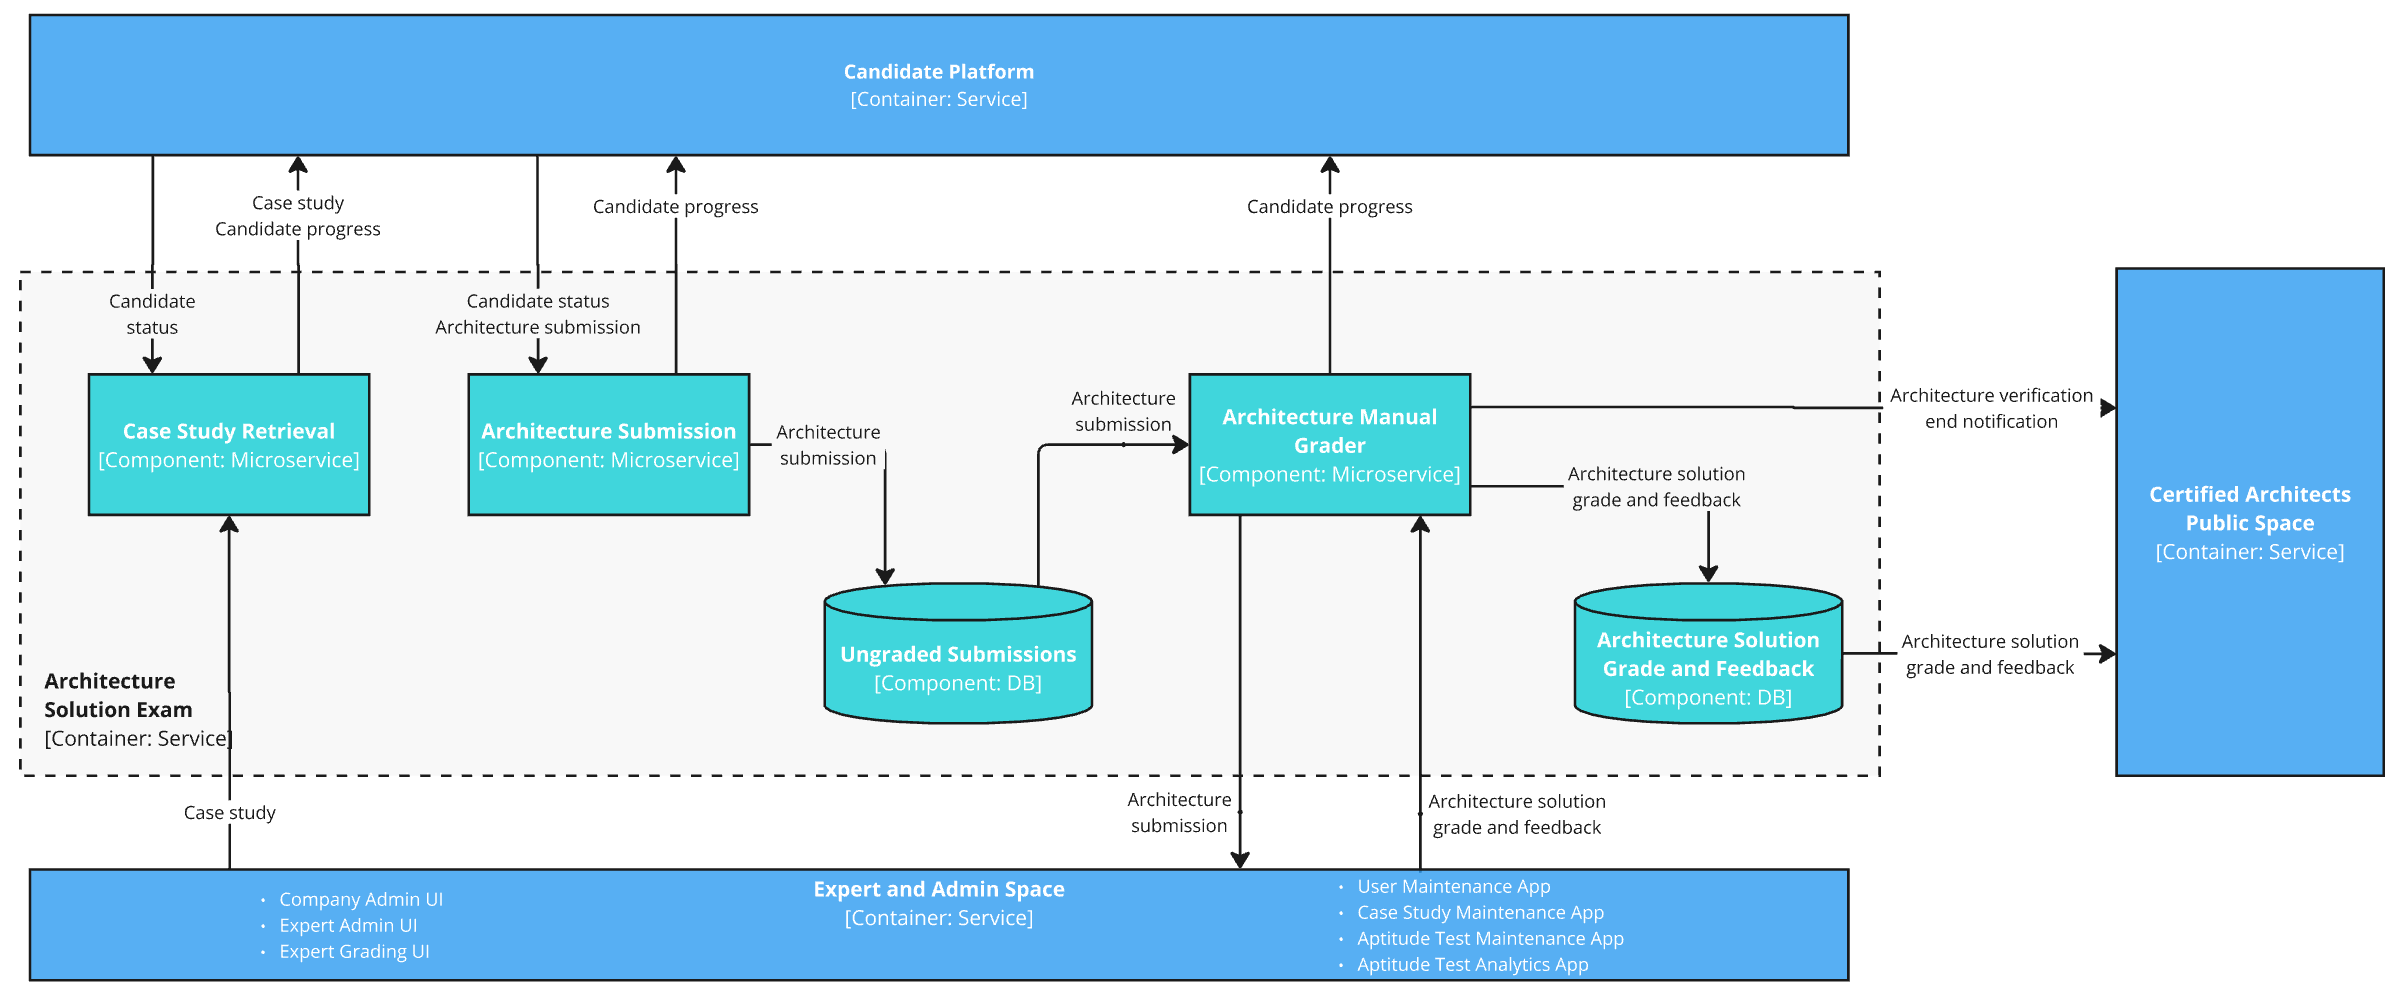
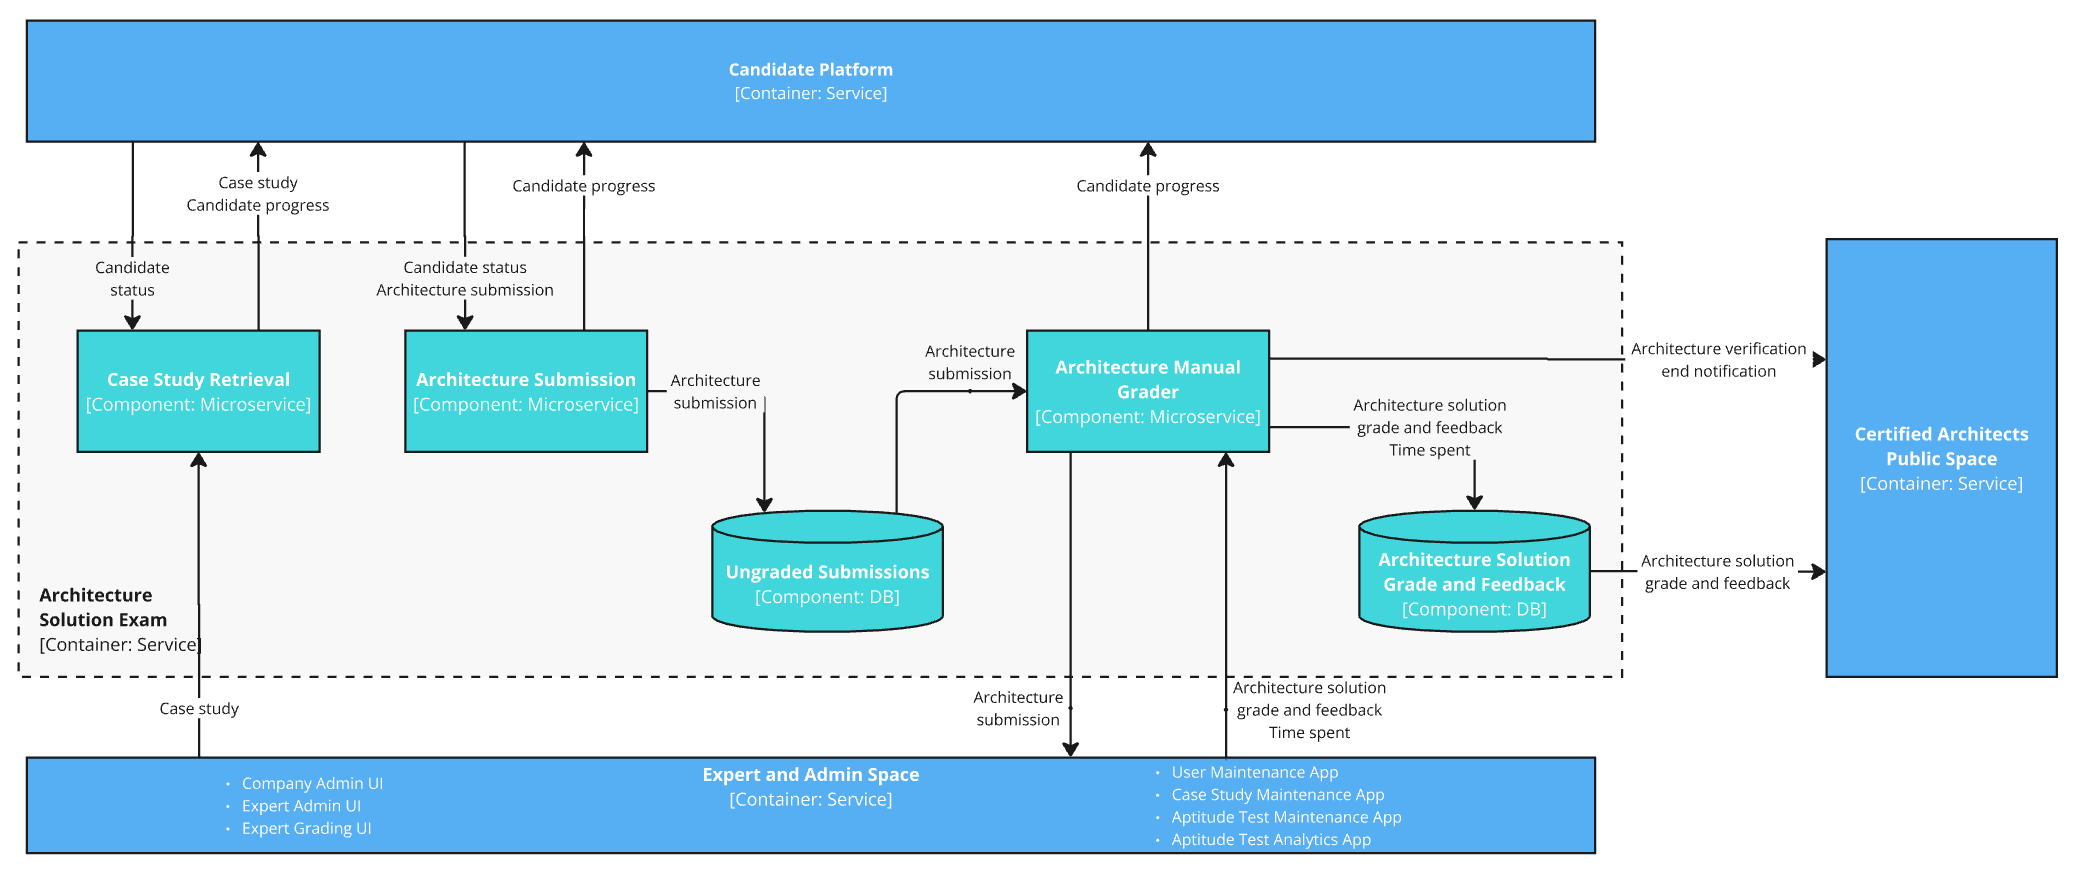
Added context into Main file and updated assumption about time spent

diff --git a/README.md b/README.md
@@ -1,6 +1,6 @@
 # The Software Architecture Guild Architectural Kata by O'Reilly, February 2025
 
-## Team members
+## Team members <!-- omit in toc -->
 
 - [Ilya Hardzeenka](https://www.linkedin.com/in/ilya-hardzeenka/)
 - [Ksenia Bernat](https://www.linkedin.com/in/kseniya-bernat-342900104/)
@@ -8,7 +8,30 @@
 - [Mikalai (Nick) Herman](https://www.linkedin.com/in/gekola/)
 - [Oleg Zubchenko](https://www.linkedin.com/in/rgbd-me/)
 
-## Table of Contents
+## Table of Contents <!-- omit in toc -->
+
+- [Welcome](#welcome)
+- [Business Case](#business-case)
+  - [Background](#background)
+  - [Market Opportunity](#market-opportunity)
+  - [Objective](#objective)
+  - [Stakeholders](#stakeholders)
+  - [External Stakeholders](#external-stakeholders)
+  - [Original requirements](#original-requirements)
+- [Current System Overview](#current-system-overview)
+  - [Functional Viewpoint](#functional-viewpoint)
+  - [Context Viewpoint](#context-viewpoint)
+  - [Informational Viewpoint](#informational-viewpoint)
+  - [Cost Perspective](#cost-perspective)
+  - [Quality Perspective](#quality-perspective)
+- [Assumptions](#assumptions)
+- [Challenges and Opportunities](#challenges-and-opportunities)
+- [Proposed Solutions](#proposed-solutions)
+  - [Overview](#overview)
+  - [Solution 1](#solution-1)
+  - [Solution 2](#solution-2)
+  - [Solution 3](#solution-3)
+- [Final words](#final-words)
 
 ## Welcome
 
@@ -144,6 +167,34 @@ A Designated Expert has all the responsibilities of a regular Expert Software Ar
 
 > *Describes the relationships, dependencies, and interactions between the system and its environment (the people, systems, and external entities with which it interacts).*
 
+Detailed description of logical structure of the system can be found by in a [separate document](current_state/context_viewpoint/README.md). Here we will point out the most important aspects of current structure.
+
+#### Level 2 - Container diagram - Certification Platform
+
+> The Container diagram shows the high-level shape of the software architecture and how responsibilities are distributed across it. It also shows the major technology choices and how the containers communicate with one another
+
+We propose a revised logical organization for the system, with slight modifications from the current structure. Our goal is to re-group components into the following categories to provide better clarity when explaining future system changes.
+
+> [!NOTE]
+> *If the existing structure differs from our assumptions, it will introduce a prerequisite implementation step before any proposed AI-related changes can be implemented. This step would involve aligning logical structure with the necessary structure to support AI integration.*
+
+- **Candidate Space**
+  Responsible for interaction with Candidates. Includes Candidate Testing UI, Candidate Registration, Candidate Status, and Notification service. Here, Candidates can sign up, take tests, and receive notifications when test validation results are available.
+- **Expert and Admin Space**
+  Responsible for handling interactions with Experts, Designated Experts, and Administrators. Here, Experts and Designated Experts can collaborate to create and modify existing Tests and Case Studies, as well as grade submitted tests and architecture solutions. Administrators and Experts can also manage Expert user profiles here.
+- **Aptitude Test**
+  Service responsible for organizing the Aptitude Test process. It delivers the test to Candidates and accepts their answers. It automatically grades multiple-choice questions and presents short answers for manual grading. It also accepts grades and feedback submitted by Experts.
+- **Architecture Solution Exam**
+  Service responsible for organizing the Case Study Test process. It randomly selects a Case Study for the Candidate and accepts their solution. It presents the submitted solution to the Expert for evaluation and accepts grades and feedback.
+- **Certified Architects Public Space**
+  Service responsible for generating, storing, and distributing Certificates to Candidates and external HRs. It also generates a notification with the results of the Architecture Solution Exam and Certificate information.
+
+![Diagram](current_state/context_viewpoint/level2_containers.png)
+
+In addition to the new structure, we have made one key assumption. There is no information on how experts' time is tracked, who reviews it, or how their salaries are managed. While accounting is not our primary focus, understanding the time spent by experts per test is crucial for the future changes we plan to introduce.
+
+**We assume that experts submit the time spent along with the validated test or architecture submission**.
+
 ### Informational Viewpoint
 
 > *Describes the way that the architecture stores, manipulates, manages, and distributes information.*
@@ -204,7 +255,7 @@ Given the lack of additional information, we must make the **following assumptio
 
 - For the **8 hours** an Expert spends on **Case Study validation**, we assume the time is evenly distributed: **33% for understanding the submission, 33% for grading, and 33% for providing feedback**.
 
-- !!! We assume the system **automatically tracks** the time an Expert spends on validating tests and **stores this information** in a designated location.
+- We assume the system **automatically tracks** the time an Expert spends on validating tests and **stores this information** in a designated location.
 
 - We assume there is **no established retention period**, and the database **stores graded answers and architecture submissions** of **120,000 candidates** who have already completed the certification process.
 
@@ -218,19 +269,19 @@ Given the lack of additional information, we must make the **following assumptio
 
 ## Challenges and Opportunities
 
-### Scalability is a Major Challenge
+#### Scalability is a Major Challenge
 
 The company currently employs *300 Experts* to validate tests for *200 candidates per week*. Scaling up to *1,000 candidates per week* would require either *longer wait times* (which is unacceptable) or *hiring significantly more Experts*. Hiring more Experts would also necessitate additional *managerial roles and support staff* (e.g., Administrators, Accountants, HR personnel), further *increasing operational costs*. As a result, *the cost per test would continue to rise*, negatively impacting profitability.
 
 #### <mark>Opportunity: Investing in **automation** is essential to ensure the company's long-term viability</mark>
 
-### High Cost Model
+#### High Cost Model
 
 Currently, the company spends *$550 per test validation*, which accounts for *68% of the $800 certification fee*. This is a *significant expense*, and the *primary cost driver* is the time spent by Experts on validation. Reducing validation time is *key to lowering costs*, and AI can play a major role in *optimizing productivity*.
 
 #### <mark>Opportunity: AI-driven productivity enhancements can significantly **reduce validation time**, leading to **lower costs per test** and increased **operational efficiency**</mark>
 
-### Current Expert Compensation Model Discourages Efficiency
+#### Current Expert Compensation Model Discourages Efficiency
 
 Experts are *paid per hour*, meaning there is *no incentive* for them to work faster or process more tests. AI assistance can only succeed *if Experts are motivated* to use it effectively.
 
@@ -242,19 +293,19 @@ A better approach would be a *per-test payment model* instead of hourly pay.
 
 #### <mark>Opportunity: Transitioning to a **per-test payment model** would incentivize Experts to work faster and maximize efficiency, benefiting both Experts and the company</mark>
 
-### High-Quality Expectations Limit Full Automation
+#### High-Quality Expectations Limit Full Automation
 
 Given the strict *accuracy and reliability requirements*, fully automating the grading process is *not viable*. A human *must remain in control* to make final grading decisions. Instead of *replacing Experts*, AI should function as an *assistant*, helping them *validate tests faster and with greater accuracy*.
 
 #### <mark>Requirement: AI should be used as an **expert assistant**, speeding up grading rather than replacing human decision-making</mark>
 
-### Lack of a Measurable Grading Quality Process
+#### Lack of a Measurable Grading Quality Process
 
 Despite high expectations for grading quality, there is *no formalized process to measure it*. Establishing a *quality baseline* is crucial before making system changes. Experts already make mistakes, and incorporating *candidate feedback loops* is essential for assessing grading accuracy. A *human-only baseline* must be established to *track improvements* as AI-assisted grading is introduced.
 
 #### <mark>Requirement: A **quality control process** must be implemented before system improvements, ensuring that grading accuracy can be measured and improved over time</mark>
 
-### No Defined Process for Tracking Validation Time
+#### No Defined Process for Tracking Validation Time
 
 There is *no mention of how validation time is currently tracked*, yet it is a key efficiency metric for AI-assisted improvements. A proper *measurement system* must be put in place to ensure progress in *reducing validation time*.
 

diff --git a/current_state/context_viewpoint/README.md b/current_state/context_viewpoint/README.md
@@ -36,9 +36,7 @@ As we can see, the system is interacting only with people:
 
 > The Container diagram shows the high-level shape of the software architecture and how responsibilities are distributed across it. It also shows the major technology choices and how the containers communicate with one another
 
-We propose new logical organization for the system, which is a bit different from presented one. We would like to re-group components into following groups:
-
-We propose a new logical organization for the system, which differs slightly from the presented one. We would like to re-group components into the following groups:
+We propose a revised logical organization for the system, with slight modifications from the current structure. Our goal is to re-group components into the following categories to provide better clarity when explaining future system changes:
 
 - **Candidate Space**
   Responsible for interaction with Candidates. Includes Candidate Testing UI, Candidate Registration, Candidate Status, and Notification service. Here, Candidates can sign up, take tests, and receive notifications when test validation results are available.
@@ -65,7 +63,7 @@ The diagram illustrates the **Candidate Space** and its interaction with various
 
 The **Candidate Testing UI (Component: Web App)** serves as the central interface where candidates provide their information, submit aptitude test answers, and upload architecture solutions.
 
-#### Workflow <!-- omit in toc -->
+#### Workflow
 
 Step 1: Candidate Registration
 
@@ -103,7 +101,7 @@ The system ensures a seamless process for candidates from registration to certif
 
 The diagram illustrates the **Expert and Admin Space**, which supports the certification process by allowing experts and administrators to manage exams, grading, and certification logs. The architecture is divided into multiple sections, including expert administration, grading, and overall maintenance. The system ensures an efficient process for maintaining certification standards, analyzing test performance, and allowing expert-driven updates to exam content.
 
-#### Workflow <!-- omit in toc -->
+#### Workflow
 
 Step 1: Administrative Functions
 
@@ -127,6 +125,7 @@ Step 3: Expert Grading Process
 - Short answers are sent to the **Expert Grading UI (Component: Web App)** for evaluation by software architects.
 - The **Architecture Solution Exam (Container: Service)** processes case study submissions and forwards them for expert review.
 - Experts manually grade short-answer responses and architecture solutions, providing detailed feedback.
+- Experts submit the time spent validating a test along with the validated test itself.
 
 Step 4: Certification Review & Reporting
 
@@ -139,7 +138,7 @@ Step 4: Certification Review & Reporting
 
 This diagram represents the **Aptitude Test** process, which is the **first stage** of the certification process for software architects. It illustrates the workflow for test retrieval, answers submission, grading, and notification.
 
-#### Workflow <!-- omit in toc -->
+#### Workflow
 
 The aptitude test process follows a structured step-by-step approach.
 
@@ -181,7 +180,7 @@ Step 5: Candidate Notification & Result Delivery
 
 This diagram represents the **Architecture Solution Exam** process, which is the **second stage** of the certification process for software architects. It illustrates the workflow for case study retrieval, architecture submission, grading, and final certification.
 
-#### Workflow <!-- omit in toc -->
+#### Workflow
 
 Step 1: Case Study Retrieval
 
@@ -211,7 +210,7 @@ Step 4: Candidate Notification & Certification
 
 The diagram illustrates the **Certified Architects Public Space**, which manages certification issuance, verification, and result retrieval for candidates and HR representatives. It ensures that successful candidates receive their certification and that organizations can verify certification status.
 
-#### Workflow <!-- omit in toc -->
+#### Workflow
 
 Step 1: Architecture Solution Evaluation
 
